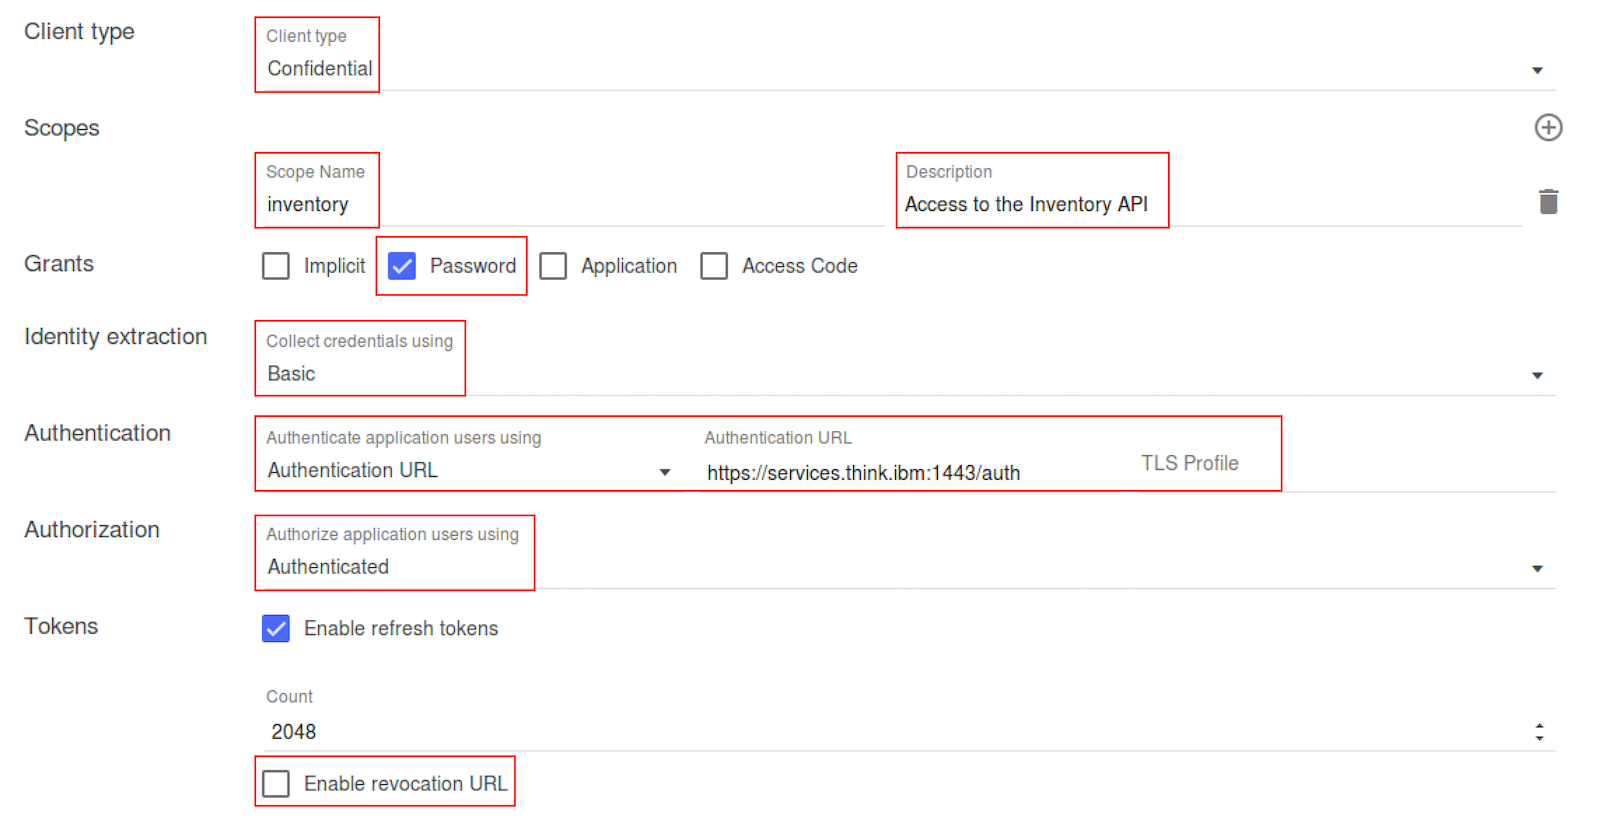
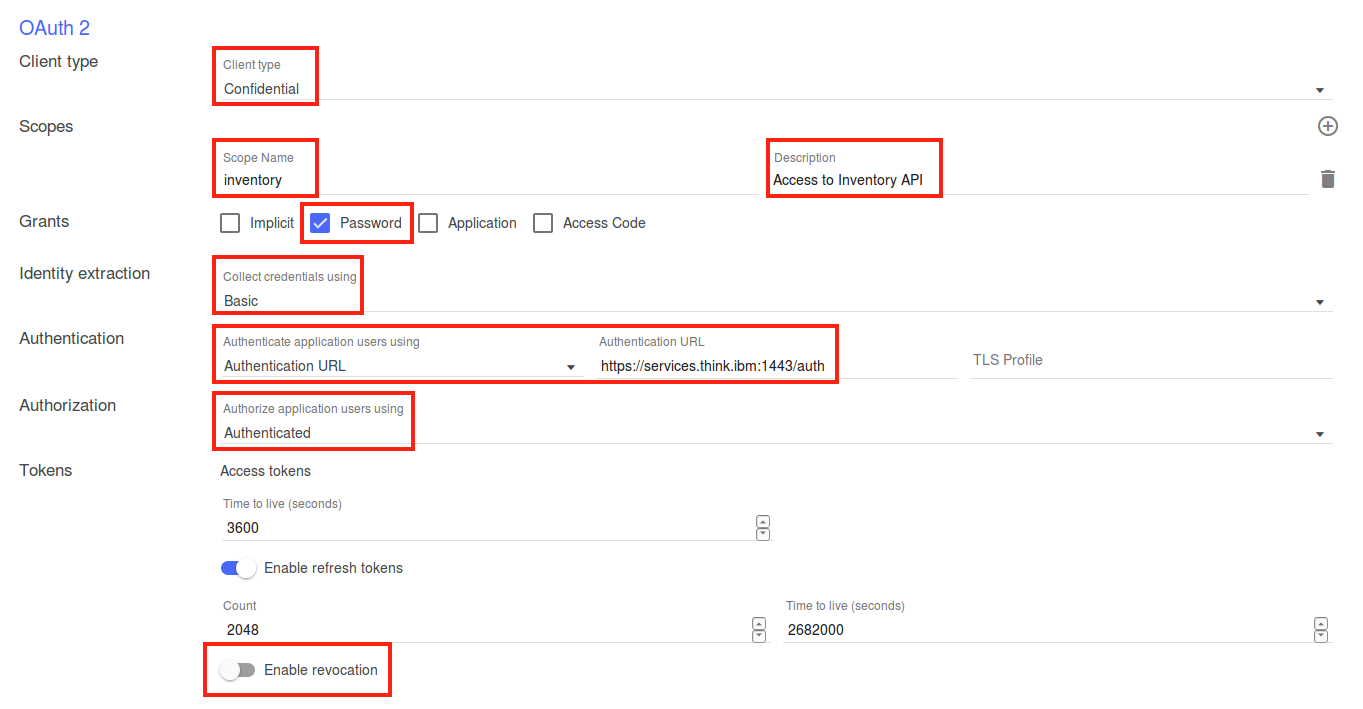
updating for 5010

diff --git a/lab-guide/Lab 4 - Configure and Secure an API/README.md b/lab-guide/Lab 4 - Configure and Secure an API/README.md
@@ -54,7 +54,7 @@ In this tutorial, you will secure the Inventory API to protect the resources exp
 	
 	> Add to an existing product: `inventory 1.0.0`
 	
-	![](https://github.com/ibm-apiconnect/pot-onprem-docs/raw/5010/lab-guide/img/lab4/newoauthprops-1of2.png)
+	![](https://github.com/ibm-apiconnect/pot-onprem-docs/raw/5010/lab-guide/img/lab4/newoauthprops.png)
 
 1. The API Editor will launch. If this is your first time using the API Editor, you will see an informational message. When you are ready to proceed, click the `Got it!` button to dismiss the message.  
 	
